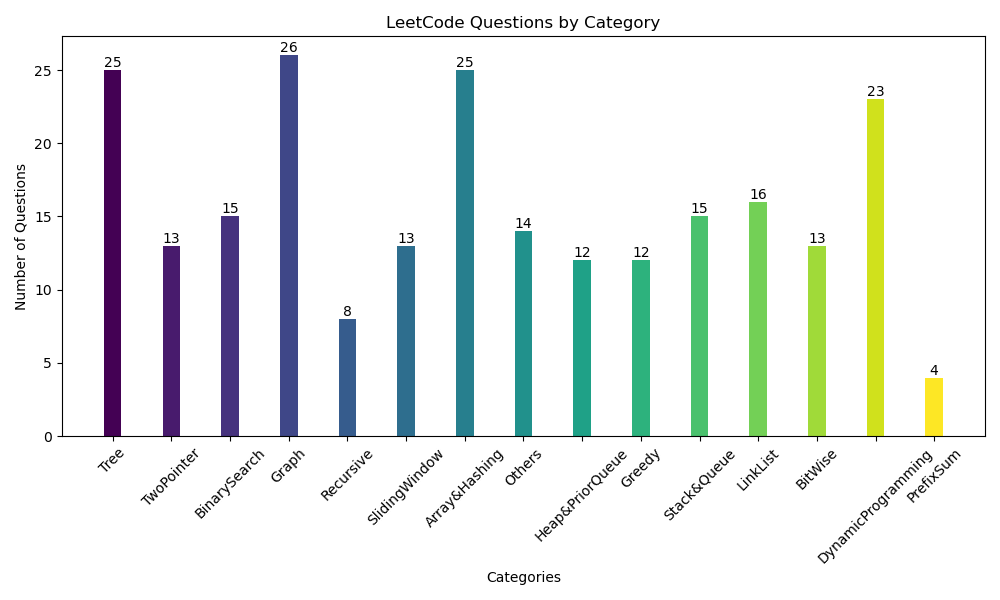
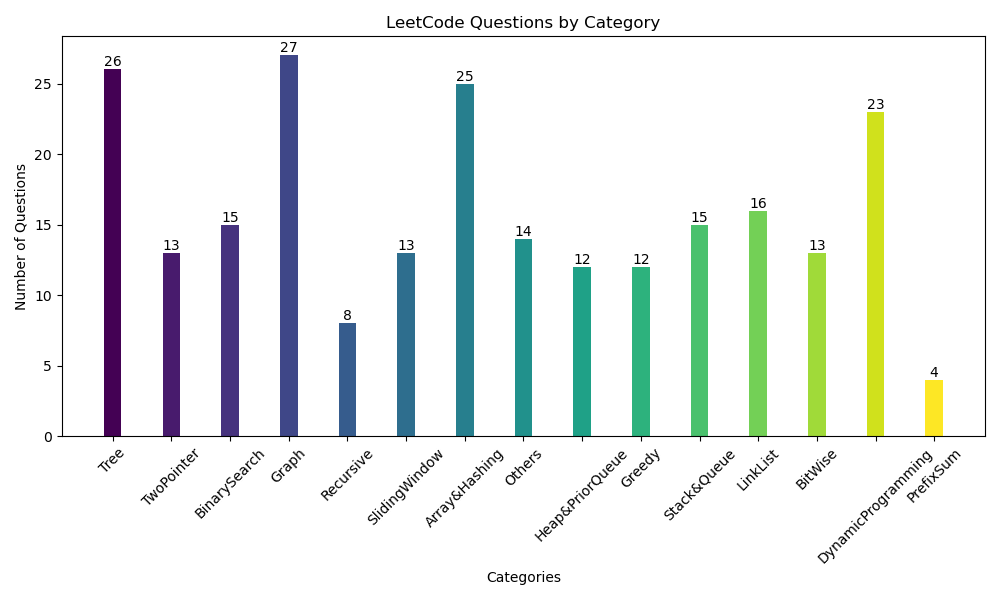
pratices tree, shortest path

diff --git a/Graph/778. Swim in Rising Water.cpp b/Graph/778. Swim in Rising Water.cpp
@@ -1,0 +1,49 @@
+/*
+    BFS, Dijkstra's algorthm, 問題在於top left -> bottom right 的shortest path
+    heap 存目前最短的path, 2-D distance紀錄大家起始都是INT_MAX, greedy
+   每次取最小的距離去update, 然後將下一個node distance push 到heap
+*/
+class Solution {
+  public:
+	int swimInWater(vector<vector<int>> &grid) {
+		int n = grid.size();
+		int m = grid[0].size();
+		vector<vector<int>> distance(n, vector<int>(m, INT_MAX));
+		vector<vector<bool>> visit(n, vector<bool>(m, false));
+		vector<vector<int>> dirs = {{0, 1}, {0, -1}, {1, 0}, {-1, 0}};
+		priority_queue<tuple<int, int, int>, vector<tuple<int, int, int>>,
+		               greater<>>
+		    min_heap;
+		distance[0][0] = grid[0][0]; // 起點也要等
+		visit[0][0] = true;
+		min_heap.push({distance[0][0], 0, 0});
+		while (!min_heap.empty()) {
+			auto [d, r, c] = min_heap.top();
+			min_heap.pop();
+			// cout << d << " " << r << " " << c << " " << grid[r][c] << endl;
+			if (distance[r][c] < d)
+				continue; // 已經有更小的了
+			for (auto &dir : dirs) {
+				int next_r = r + dir[0];
+				int next_c = c + dir[1];
+				if (next_r >= 0 && next_r < n && next_c >= 0 && next_c < m) {
+
+					int cur_dis = max(
+					    distance[r][c],
+					    grid[next_r][next_c]); // 如果cur_dis
+					                           // 就已經比grid[next_r][next_c]
+					                           // 大就無需等待
+					if (!visit[next_r][next_c] &&
+					    cur_dis < distance[next_r][next_c]) {
+						// cout << cur_dis << endl;
+						distance[next_r][next_c] = cur_dis;
+						min_heap.push(
+						    {distance[next_r][next_c], next_r, next_c});
+						visit[next_r][next_c] = true;
+					}
+				}
+			}
+		}
+		return distance[n - 1][m - 1];
+	}
+};

diff --git a/Tree/1382. Balance a Binary Search Tree.cpp b/Tree/1382. Balance a Binary Search Tree.cpp
@@ -1,0 +1,45 @@
+// proficient
+// 24分鐘
+/**
+ * Definition for a binary tree node.
+ * struct TreeNode {
+ *     int val;
+ *     TreeNode *left;
+ *     TreeNode *right;
+ *     TreeNode() : val(0), left(nullptr), right(nullptr) {}
+ *     TreeNode(int x) : val(x), left(nullptr), right(nullptr) {}
+ *     TreeNode(int x, TreeNode *left, TreeNode *right) : val(x), left(left),
+ * right(right) {}
+ * };
+ */
+/*
+    按照inorder(sorted)將node 排列好, 中間的node是new root, 再左右每次取middle
+   放到left, right create new binary search tree
+
+*/
+class Solution {
+  public:
+	vector<int> node_list;
+	TreeNode *balanceBST(TreeNode *root) {
+		inorder(root);
+		return createBST(0, node_list.size() - 1);
+	}
+	TreeNode *createBST(int l, int r) {
+		if (l > r)
+			return nullptr; // 防止overflow
+		int m = l + (r - l) / 2;
+		TreeNode *node = new TreeNode(node_list[m]);
+		if (l < r) {
+			node->left = createBST(l, m - 1);
+			node->right = createBST(m + 1, r);
+		}
+		return node;
+	}
+	void inorder(TreeNode *node) {
+		if (node == nullptr)
+			return;
+		inorder(node->left);
+		node_list.push_back(node->val);
+		inorder(node->right);
+	}
+};

diff --git a/README.md b/README.md
@@ -1,8 +1,8 @@
 # LeetCode Problems
 
 ❌  can't resolve without solution: 26
-📝  can't resolve without hint: 173
-✅  resolve by self: 35
+📝  can't resolve without hint: 174
+✅  resolve by self: 36
 ## Tree
 - ❌ 105. Construct Binary Tree from Preorder and Inorder Traversal
 - 📝 PrefixTree
@@ -21,6 +21,7 @@
 - 📝 levelOrder
 - 📝 Depth
 - 📝 94.inorderTraversal
+- ✅ 1382. Balance a Binary Search Tree
 - ✅ 124. Binary Tree Maximum Path Sum
 - ✅ 1325. Delete Leaves With a Given Value
 - ✅ 988. Smallest String Starting From Leaf
@@ -79,6 +80,7 @@
 - 📝 PacificAtlanticWaterFlow
 - 📝 isoLand
 - 📝 3249. Count the Number of Good Nodes
+- 📝 778. Swim in Rising Water
 - 📝 743.NetworkDelayTime
 - 📝 3372. Maximize the Number of Target Nodes After Connecting Trees I
 - 📝 210.CourseSchedule2
@@ -268,7 +270,7 @@
 - 📝 2574. Left and Right Sum Differences
 
 ## Statistics
-Current total questions: 233
+Current total questions: 235
 
 <img src="chart.png" alt="questions bar chart" width="500">
 
